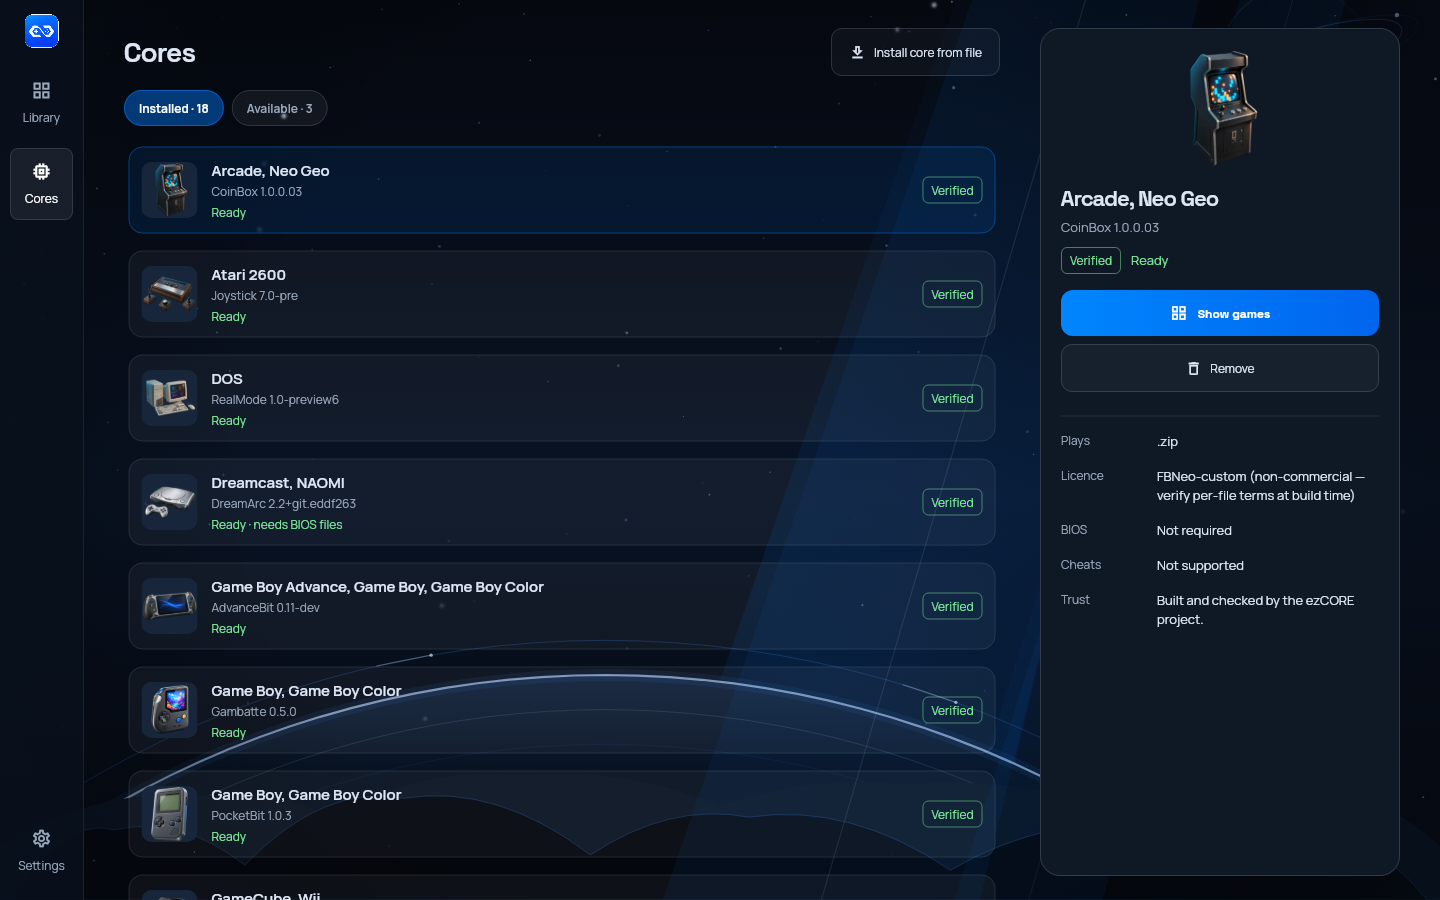
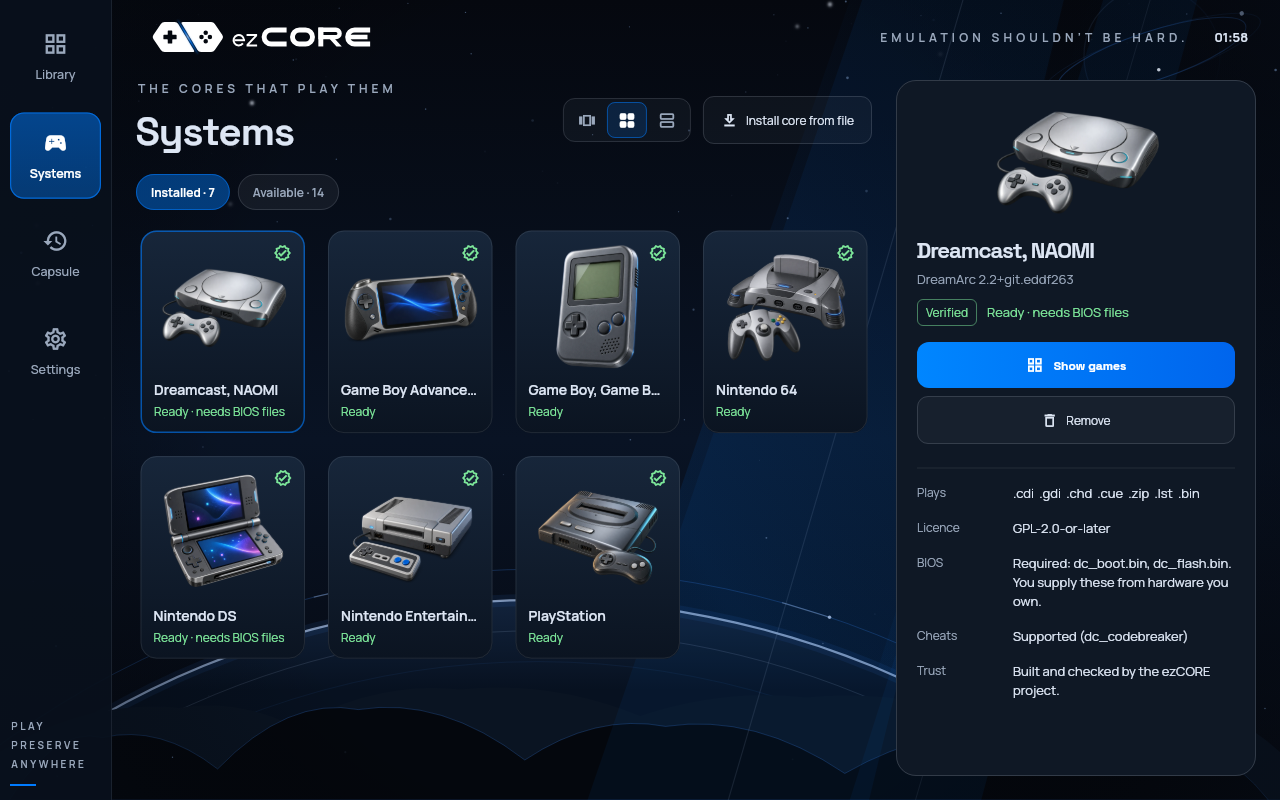
docs(readme): shelf screenshots and animated GIF from the real app

diff --git a/README.md b/README.md
@@ -63,13 +63,24 @@ with one front door:
 ### Resume. Just press play.
 
 ezCORE opens on the game you played last — *any* system — and puts you back
-where you stopped. The decision fatigue is gone.
+where you stopped. The decision fatigue is gone. Browse the shelf with the
+arrow keys, the mouse wheel, a swipe, or a controller's d-pad.
+
+<p align="center">
+  <img alt="Browsing the 3D shelf with the arrow keys" src="docs/images/shelf.gif" width="800">
+</p>
 
 ### One library, every system.
 
 Add a file or drop in a folder. ezCORE recognizes what each game is and which
 core plays it, then gives you search, per-system filters, favourites, and a
-*Continue playing* rail. No more remembering which emulator did what.
+*Continue playing* rail. No more remembering which emulator did what. Prefer a
+wall of covers? Switch from the 3D shelf to **Grid** or **List**; ezCORE
+remembers your choice.
+
+<p align="center">
+  <img alt="The library as a grid, with Resume and Continue playing" src="docs/images/library-grid.png" width="900">
+</p>
 
 **A real page for every game** — its own art, a Resume button, every save as a
 loadable card, and the honest details: which core plays it, where the file
